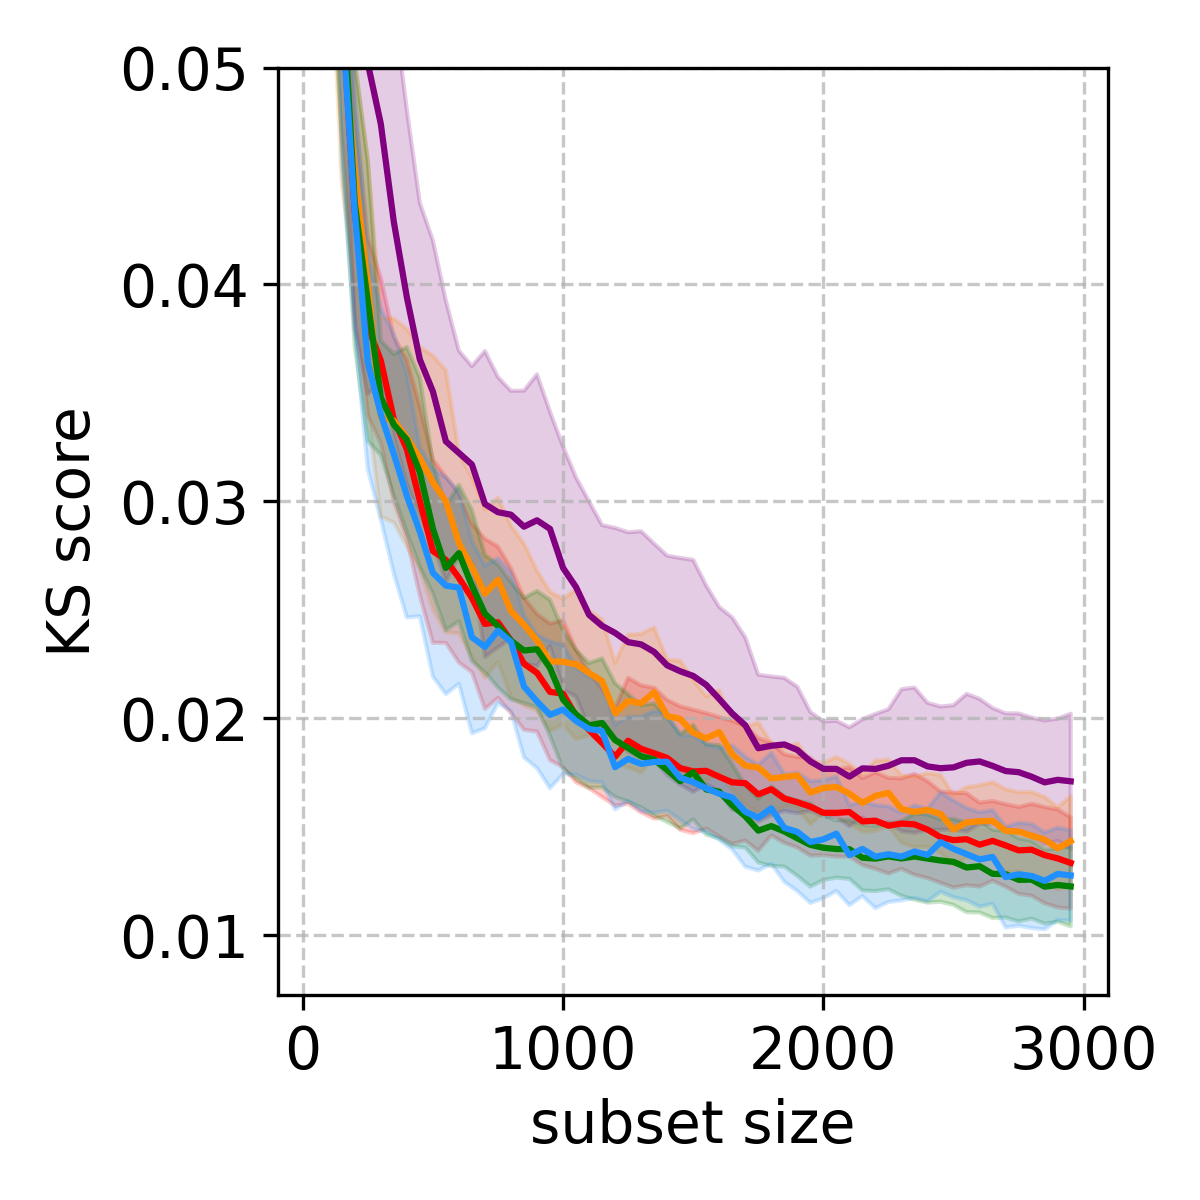
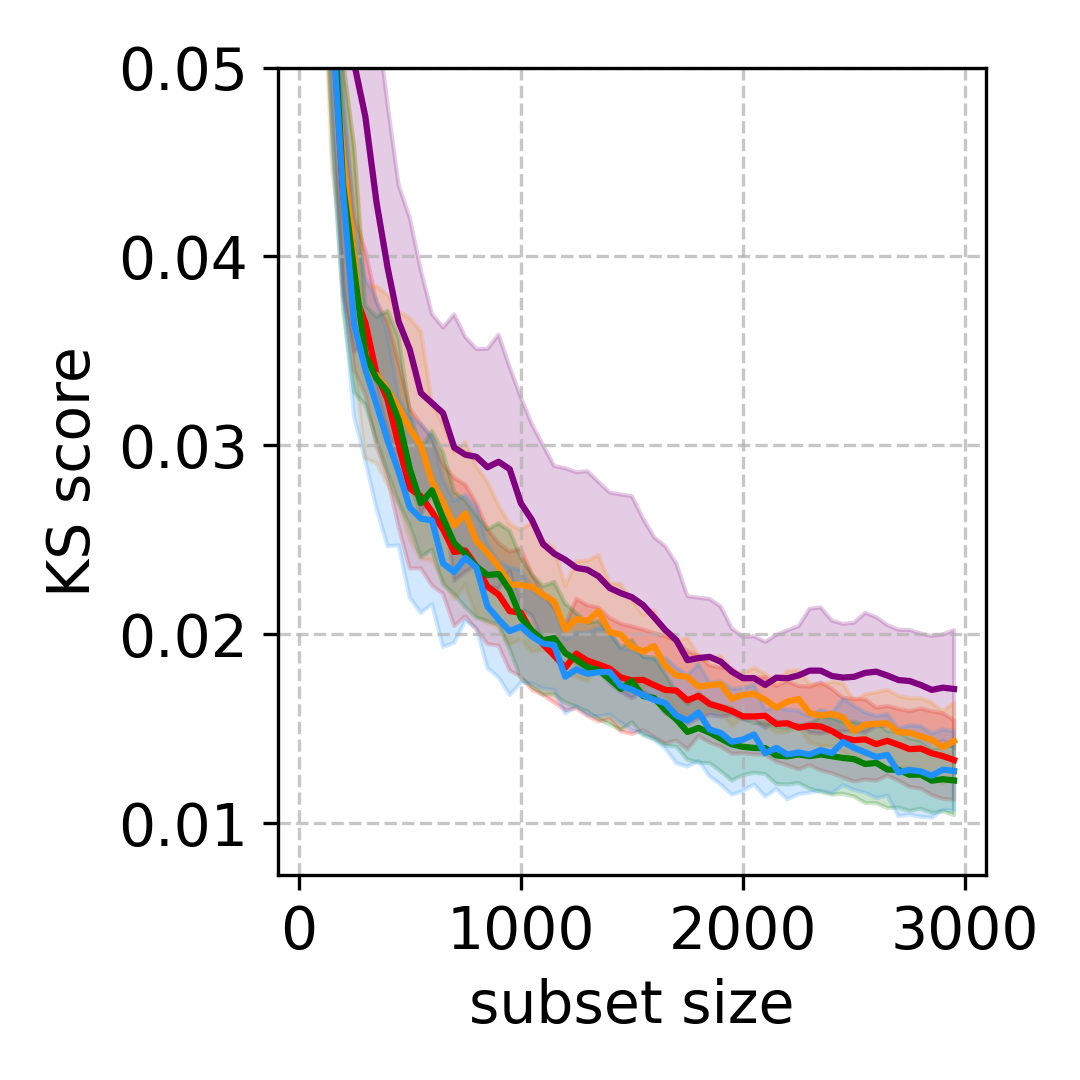
generate larger plots wiki for manuscript

diff --git a/src/plot_wikilarge_divergencies_updated.py b/src/plot_wikilarge_divergencies_updated.py
@@ -3,7 +3,7 @@ import os
 import matplotlib.pyplot as plt
 import numpy as np
 
-NUM_BINS = 45
+NUM_BINS = 25
 DATASET_NAME = "wikilarge_ori"
 EXPERIMENT_DIR = f"./../experiments/sample_from_{DATASET_NAME}"
 BIN_KEY = f"num_bins_{NUM_BINS}"
@@ -68,7 +68,7 @@ def map_metric_name(metric_ugly):
 def plot_separately():
     for stat in STATS:
         for strat_type in STRAT_TYPES:
-            fig, ax = plt.subplots(figsize=(4, 4))
+            fig, ax = plt.subplots(figsize=(3.6, 3.6))
 
             # … your existing plot code …
             for strat_metric in STRAT_METRICS:
@@ -106,8 +106,8 @@ def plot_separately():
             fig.savefig(f"{OUTPUT_DIR}/{strat_type}_{stat}.png", dpi=300)
             plt.close(fig)
 
-            fig_leg = plt.figure(figsize=(10, 1))
-            fig_leg.legend(handles, labels, ncol=5, loc="center", frameon=False, fontsize=12)
+            fig_leg = plt.figure(figsize=(8, 1))
+            fig_leg.legend(handles, labels, ncol=1, loc="center", frameon=False, fontsize=12)
             fig_leg.subplots_adjust(left=0, right=1, top=1, bottom=0)
             fig_leg.savefig(f"{OUTPUT_DIR}/legend_{strat_type}.png",
                             dpi=300, bbox_inches="tight")
@@ -117,7 +117,7 @@ def plot_separately():
 def plot_together():
 
     for stat in STATS:
-        fig, ax = plt.subplots(figsize=(4, 4))
+        fig, ax = plt.subplots(figsize=(3.6, 3.6))
 
         for strat_type in STRAT_TYPES:
             linestyle = "-" if strat_type == "splitwise" else "--"
@@ -161,8 +161,8 @@ def plot_together():
         plt.close(fig)
 
         # 2) Draw & save legend only
-        fig_leg = plt.figure(figsize=(10, 1))
-        fig_leg.legend(handles, labels, ncol=5, loc="center", frameon=False, fontsize=12)
+        fig_leg = plt.figure(figsize=(8, 1))
+        fig_leg.legend(handles, labels, ncol=1, loc="center", frameon=False, fontsize=12)
         fig_leg.subplots_adjust(left=0, right=1, top=1, bottom=0)
         fig_leg.savefig(f"{OUTPUT_DIR}/legend_both.png",
                         dpi=300, bbox_inches="tight")
